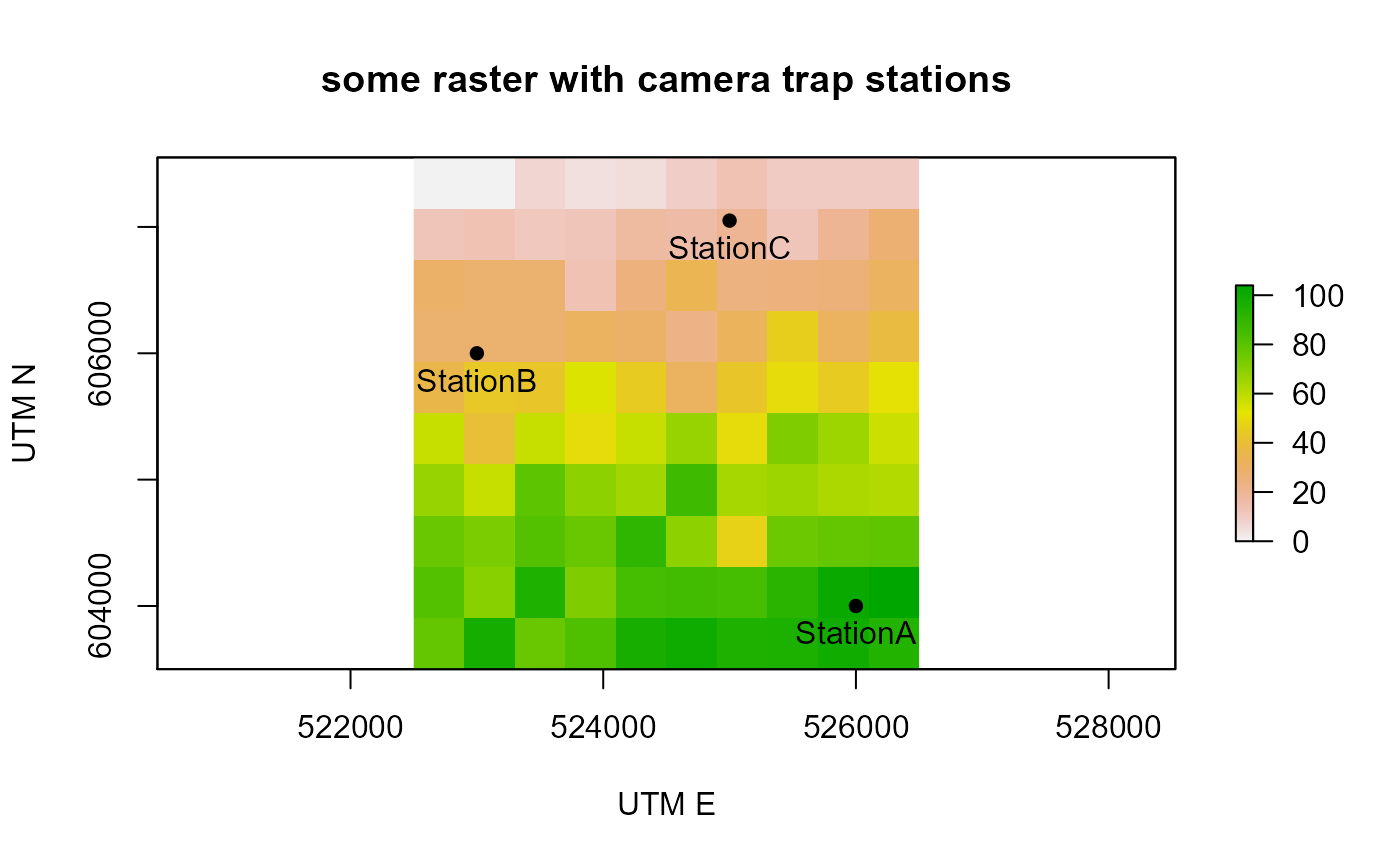
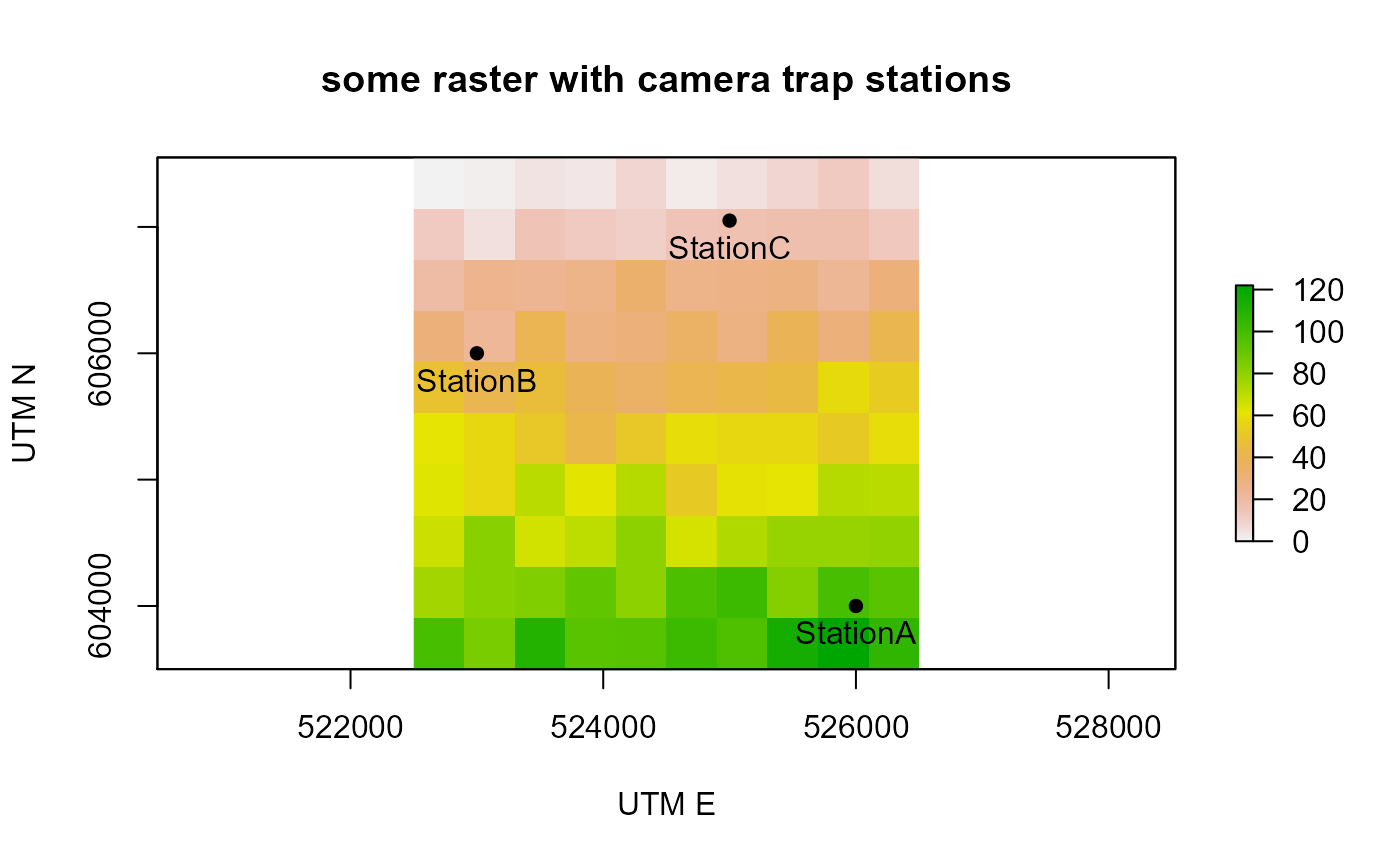
updated changed hyperlinks

Changed region(s): [[0.2764, 0.1561, 0.6757, 0.7803], [0.8907, 0.3121, 0.9521, 0.5931]]

diff --git a/docs/articles/camtrapr1.html b/docs/articles/camtrapr1.html
@@ -94,7 +94,7 @@
       <h1 data-toc-skip>1. Organising raw camera trap images in camtrapR</h1>
                         <h4 class="author">Juergen Niedballa (<a href="mailto:camtrapr@gmail.com" class="email">camtrapr@gmail.com</a>)</h4>
             
-            <h4 class="date">2021-03-20</h4>
+            <h4 class="date">2021-04-23</h4>
       
       <small class="dont-index">Source: <a href="https://github.com/jniedballa/camtrapR/blob/master/vignettes/camtrapr1.Rmd"><code>vignettes/camtrapr1.Rmd</code></a></small>
       <div class="hidden name"><code>camtrapr1.Rmd</code></div>
@@ -286,7 +286,7 @@
 <p>Two functions (<code>cameraOperation</code>, <code>surveyReport</code>) utilize these date information and therefore contain arguments to specify the date format (<code>dateFormat</code> and <code>CTDateFormat</code>, respectively). These arguments are used to interpret the character string in the table (e.g. "2015-12-31") as a date.</p>
 <p>If these arguments contain the character “%” (characteristic of the format argument to <code>strptime</code>), they are passed to function <code>as.Date</code> as argument <code>format</code>. If they don’t contain character “%”, they are interpreted as <code>orders</code> arguments to the function <code>parse_date_time</code> in the <code>lubridate</code> package.</p>
 <p>Details on how to set it correctly can be found in the Details section of the help files of functions <code>as.Date</code> and <code>strptime</code> or <code>parse_date_time</code>.</p>
-<p><a href="https://www.r-bloggers.com/date-formats-in-r/">Here is some information about date format in base R</a>.</p>
+<p><a href="https://www.r-bloggers.com/2013/08/date-formats-in-r/">Here is some information about date format in base R</a>.</p>
 <p><a href="https://lubridate.tidyverse.org/">Here is some information about date format in lubridate</a>.</p>
 <p>Here are a few examples for December 1st 2015 ("generic" is the abstract representation of your date string (Y = year, M = month, D = day), "example" is a formatted example and "dateFormat argument" is what you’d specify in <code>dateFormat</code> and <code>CTDateFormat</code> in either the base R or <code>lubridate</code> naming convention):</p>
 <table class="table">
@@ -392,9 +392,9 @@
 ## 2 StationB
 ## 3 StationC
 ##                                                                          directory
-## 1 C:/Users/Juergen/AppData/Local/Temp/RtmpGiwBmz/createStationFoldersTest/StationA
-## 2 C:/Users/Juergen/AppData/Local/Temp/RtmpGiwBmz/createStationFoldersTest/StationB
-## 3 C:/Users/Juergen/AppData/Local/Temp/RtmpGiwBmz/createStationFoldersTest/StationC
+## 1 C:/Users/Juergen/AppData/Local/Temp/RtmpWii45v/createStationFoldersTest/StationA
+## 2 C:/Users/Juergen/AppData/Local/Temp/RtmpWii45v/createStationFoldersTest/StationB
+## 3 C:/Users/Juergen/AppData/Local/Temp/RtmpWii45v/createStationFoldersTest/StationC
 ##   created exists
 ## 1    TRUE   TRUE
 ## 2    TRUE   TRUE
@@ -430,13 +430,13 @@
                                  timeShiftColumn      <span class="op">=</span> <span class="st">"timeshift"</span>,
                                  timeShiftSignColumn  <span class="op">=</span> <span class="st">"sign"</span>
 <span class="op">)</span></code></pre></div>
-<pre><code>## C:/Users/Juergen/AppData/Local/Temp/RtmpGiwBmz/raw_images/StationA</code></pre>
-<pre><code>## C:/Users/Juergen/AppData/Local/Temp/RtmpGiwBmz/raw_images/StationB</code></pre>
+<pre><code>## C:/Users/Juergen/AppData/Local/Temp/RtmpWii45v/raw_images/StationA</code></pre>
+<pre><code>## C:/Users/Juergen/AppData/Local/Temp/RtmpWii45v/raw_images/StationB</code></pre>
 <div class="sourceCode" id="cb21"><pre class="downlit sourceCode r">
 <code class="sourceCode R"><span class="va">timeshift_run</span></code></pre></div>
 <pre><code>##                                                            directory
-## 1 C:/Users/Juergen/AppData/Local/Temp/RtmpGiwBmz/raw_images/StationA
-## 2 C:/Users/Juergen/AppData/Local/Temp/RtmpGiwBmz/raw_images/StationB
+## 1 C:/Users/Juergen/AppData/Local/Temp/RtmpWii45v/raw_images/StationA
+## 2 C:/Users/Juergen/AppData/Local/Temp/RtmpWii45v/raw_images/StationB
 ##               n_directories                  n_images
 ## 1     1 directories scanned     3 image files updated
 ## 2     1 directories scanned     3 image files updated</code></pre>
@@ -453,8 +453,8 @@
 
 <span class="va">timeshift_undo</span></code></pre></div>
 <pre><code>##                                                            directory
-## 1 C:/Users/Juergen/AppData/Local/Temp/RtmpGiwBmz/raw_images/StationA
-## 2 C:/Users/Juergen/AppData/Local/Temp/RtmpGiwBmz/raw_images/StationB
+## 1 C:/Users/Juergen/AppData/Local/Temp/RtmpWii45v/raw_images/StationA
+## 2 C:/Users/Juergen/AppData/Local/Temp/RtmpWii45v/raw_images/StationB
 ##   n_images_undo
 ## 1             3
 ## 2             3</code></pre>
@@ -535,12 +535,12 @@
 ## 5 IMG0002.JPG StationB     NA 2009-04-05 23:13:00         TRUE
 ## 6 IMG0003.JPG StationB     NA 2009-04-07 00:23:00         TRUE
 ##                                                                       outDir
-## 1 C:/Users/Juergen/AppData/Local/Temp/RtmpGiwBmz/raw_images_renamed/StationA
-## 2 C:/Users/Juergen/AppData/Local/Temp/RtmpGiwBmz/raw_images_renamed/StationA
-## 3 C:/Users/Juergen/AppData/Local/Temp/RtmpGiwBmz/raw_images_renamed/StationA
-## 4 C:/Users/Juergen/AppData/Local/Temp/RtmpGiwBmz/raw_images_renamed/StationB
-## 5 C:/Users/Juergen/AppData/Local/Temp/RtmpGiwBmz/raw_images_renamed/StationB
-## 6 C:/Users/Juergen/AppData/Local/Temp/RtmpGiwBmz/raw_images_renamed/StationB
+## 1 C:/Users/Juergen/AppData/Local/Temp/RtmpWii45v/raw_images_renamed/StationA
+## 2 C:/Users/Juergen/AppData/Local/Temp/RtmpWii45v/raw_images_renamed/StationA
+## 3 C:/Users/Juergen/AppData/Local/Temp/RtmpWii45v/raw_images_renamed/StationA
+## 4 C:/Users/Juergen/AppData/Local/Temp/RtmpWii45v/raw_images_renamed/StationB
+## 5 C:/Users/Juergen/AppData/Local/Temp/RtmpWii45v/raw_images_renamed/StationB
+## 6 C:/Users/Juergen/AppData/Local/Temp/RtmpWii45v/raw_images_renamed/StationB
 ##                            filename_new fileExistsAlready CopyStatus
 ## 1 StationA__2009-04-10__05-07-00(1).JPG             FALSE      FALSE
 ## 2 StationA__2009-04-21__00-40-00(1).JPG             FALSE      FALSE
@@ -624,7 +624,7 @@
 <div class="sourceCode" id="cb34"><pre class="downlit sourceCode r">
 <code class="sourceCode R"><span class="va">exiftagnames_extracted</span> <span class="op">&lt;-</span> <span class="fu"><a href="../reference/exifTagNames.html">exifTagNames</a></span><span class="op">(</span><span class="va">wd_images_ID_copy</span><span class="op">)</span></code></pre></div>
 <pre><code>## Metadata of:
-## C:/Users/Juergen/AppData/Local/Temp/RtmpGiwBmz/sample_images_species_dir/StationA/PBE/StationA__2009-04-21__00-40-00(1).JPG</code></pre>
+## C:/Users/Juergen/AppData/Local/Temp/RtmpWii45v/sample_images_species_dir/StationA/PBE/StationA__2009-04-21__00-40-00(1).JPG</code></pre>
 <div class="sourceCode" id="cb36"><pre class="downlit sourceCode r">
 <code class="sourceCode R"><span class="fu">knitr</span><span class="fu">::</span><span class="fu"><a href="https://rdrr.io/pkg/knitr/man/kable.html">kable</a></span><span class="op">(</span><span class="va">exiftagnames_extracted</span>, row.names <span class="op">=</span> <span class="cn">TRUE</span><span class="op">)</span></code></pre></div>
 <table class="table">
@@ -663,7 +663,7 @@
 <td align="left">4</td>
 <td align="left">File</td>
 <td align="left">Directory</td>
-<td align="left">C:/Users/Juergen/AppData/Local/Temp/RtmpGiwBmz/sample_images_species_dir/StationA/PBE</td>
+<td align="left">C:/Users/Juergen/AppData/Local/Temp/RtmpWii45v/sample_images_species_dir/StationA/PBE</td>
 </tr>
 <tr class="odd">
 <td align="left">5</td>
@@ -675,19 +675,19 @@
 <td align="left">6</td>
 <td align="left">File</td>
 <td align="left">FileModifyDate</td>
-<td align="left">2021:03:20 13:02:12+01:00</td>
+<td align="left">2021:04:23 16:14:38+02:00</td>
 </tr>
 <tr class="odd">
 <td align="left">7</td>
 <td align="left">File</td>
 <td align="left">FileAccessDate</td>
-<td align="left">2021:03:20 13:02:16+01:00</td>
+<td align="left">2021:04:23 16:14:41+02:00</td>
 </tr>
 <tr class="even">
 <td align="left">8</td>
 <td align="left">File</td>
 <td align="left">FileCreateDate</td>
-<td align="left">2021:03:20 13:02:10+01:00</td>
+<td align="left">2021:04:23 16:14:36+02:00</td>
 </tr>
 <tr class="odd">
 <td align="left">9</td>

diff --git a/docs/articles/camtrapr4.html b/docs/articles/camtrapr4.html
@@ -94,7 +94,7 @@
       <h1 data-toc-skip>4. Data exploration and visualisation</h1>
                         <h4 class="author">Juergen Niedballa (<a href="mailto:camtrapr@gmail.com" class="email">camtrapr@gmail.com</a>)</h4>
             
-            <h4 class="date">2021-03-20</h4>
+            <h4 class="date">2021-04-23</h4>
       
       <small class="dont-index">Source: <a href="https://github.com/jniedballa/camtrapR/blob/master/vignettes/camtrapr4.Rmd"><code>vignettes/camtrapr4.Rmd</code></a></small>
       <div class="hidden name"><code>camtrapr4.Rmd</code></div>
@@ -166,7 +166,7 @@
 <h2 class="hasAnchor">
 <a href="#shapefile-export" class="anchor"></a>Shapefile export</h2>
 <p>Function <code>detectionMaps</code> comes with 4 arguments that allow for and control creation of ESRI shapefile for use in GIS software: <code>writeShapefile</code>, <code>shapefileName</code>, <code>shapefileDirectory</code> and <code>shapefileProjection</code>. The resulting shapefile will show stations as point features (as the map above), with coordinates, total species number and number of observations per species in the attribute table. The shapefile attribute table is identical to the resulting <code>data.frame</code> of the <code>detectionMaps</code> function.</p>
-<p>The following example demonstrates the creation of a shapefile using <code>detectionMaps</code>. Please note that for demonstration the shapefile is saved to a temporary directory, which makes no sense in real data and must be changed by the user. The argument <code>shapefileProjection</code> must be a valid argument to the function <code>CRS</code> from the package <code>sp</code>, i.e., a PROJ.4 string. These can be found under <a href="http://spatialreference.org/" class="uri">http://spatialreference.org/</a>. There, find the projection your coordinates are in, click on “Proj4” and copy the text. In this example, it is a projected coordinate system, UTM 50N with the WGS84 ellipsoid. Its PROJ.4 string is "+proj=utm +zone=50 +ellps=WGS84 +datum=WGS84 +units=m +no_defs". Because it is so widespread, here’s the PROJ4 string for standard Lat/Long coordinates using the WGS84 ellipsoid (a standard used by most GPS devices): "+proj=longlat +ellps=WGS84 +datum=WGS84 +no_defs".</p>
+<p>The following example demonstrates the creation of a shapefile using <code>detectionMaps</code>. Please note that for demonstration the shapefile is saved to a temporary directory, which makes no sense in real data and must be changed by the user. The argument <code>shapefileProjection</code> must be a valid argument to the function <code>CRS</code> from the package <code>sp</code>, i.e., a PROJ.4 string. These can be found under <a href="https://spatialreference.org/" class="uri">https://spatialreference.org/</a>. There, find the projection your coordinates are in, click on “Proj4” and copy the text. In this example, it is a projected coordinate system, UTM 50N with the WGS84 ellipsoid. Its PROJ.4 string is "+proj=utm +zone=50 +ellps=WGS84 +datum=WGS84 +units=m +no_defs". Because it is so widespread, here’s the PROJ4 string for standard Lat/Long coordinates using the WGS84 ellipsoid (a standard used by most GPS devices): "+proj=longlat +ellps=WGS84 +datum=WGS84 +no_defs".</p>
 <div class="sourceCode" id="cb5"><pre class="downlit sourceCode r">
 <code class="sourceCode R"><span class="co"># writing shapefiles requires packages rgdal and sp</span>
  <span class="kw"><a href="https://rdrr.io/r/base/library.html">library</a></span><span class="op">(</span><span class="va"><a href="http://rgdal.r-forge.r-project.org">rgdal</a></span><span class="op">)</span>
@@ -200,7 +200,7 @@
 <span class="va">shapefileTest</span> <span class="op">&lt;-</span> <span class="fu"><a href="http://rgdal.r-forge.r-project.org/reference/readOGR.html">readOGR</a></span><span class="op">(</span>dsn   <span class="op">=</span> <span class="fu"><a href="https://rdrr.io/r/base/tempfile.html">tempdir</a></span><span class="op">(</span><span class="op">)</span>, 
                          layer <span class="op">=</span> <span class="va">shapefileName</span><span class="op">)</span></code></pre></div>
 <pre><code>## OGR data source with driver: ESRI Shapefile 
-## Source: "C:\Users\Juergen\AppData\Local\Temp\Rtmpm2HCHe", layer: "recordShapefileTest"
+## Source: "C:\Users\Juergen\AppData\Local\Temp\Rtmp8QTPjJ", layer: "recordShapefileTest"
 ## with 3 features
 ## It has 9 fields</code></pre>
 <div class="sourceCode" id="cb10"><pre class="downlit sourceCode r">
@@ -265,9 +265,9 @@
 <span class="op">}</span></code></pre></div>
 <p><img src="camtrapr4_files/figure-html/unnamed-chunk-7-1.png" width="700"></p>
 <pre><code>##    Station  utm_y  utm_x EGY MNE PBE TRA VTA n_species raster_value
-## 1 StationA 604000 526000   0   0   4   0   2         2          101
-## 2 StationB 606000 523000   0   2   8   0   2         3           28
-## 3 StationC 607050 525000   6   0   6   8   1         4           20</code></pre>
+## 1 StationA 604000 526000   0   0   4   0   2         2           99
+## 2 StationB 606000 523000   0   2   8   0   2         3           22
+## 3 StationC 607050 525000   6   0   6   8   1         4           16</code></pre>
 <p>The same procedure also works with the camera trap station information table instead of the <code>detectionMaps</code> output.</p>
 <p>The SpatialPointsDataFrame can easily be converted to a sf object via</p>
 <div class="sourceCode" id="cb18"><pre class="downlit sourceCode r">

diff --git a/docs/reference/camtrapR-package.html b/docs/reference/camtrapR-package.html
@@ -258,7 +258,7 @@ Information about the camera-specific trapping periods (and periods of malfuncti
 
     
 
-<p>Niedballa, J., Sollmann, R., Courtiol, A., Wilting, A. (2016): camtrapR: an R package for efficient camera trap data management. Methods in Ecology and Evolution, 7(12). <a href='https://onlinelibrary.wiley.com/doi/10.1111/2041-210X.12600/full'>https://onlinelibrary.wiley.com/doi/10.1111/2041-210X.12600/full</a> <br /></p>
+<p>Niedballa, J., Sollmann, R., Courtiol, A., Wilting, A. (2016): camtrapR: an R package for efficient camera trap data management. Methods in Ecology and Evolution, 7(12). <a href='https://besjournals.onlinelibrary.wiley.com/doi/full/10.1111/2041-210X.12600'>https://besjournals.onlinelibrary.wiley.com/doi/full/10.1111/2041-210X.12600</a> <br /></p>
 <p>camtrapR Google Group <a href='https://groups.google.com/forum/#!forum/camtrapr'>https://groups.google.com/forum/#!forum/camtrapr</a> <br /></p>
 <p>Lemon, J. (2006) Plotrix: a package in the red light district of R. R-News, 6(4): 8-12. <br /></p>
 <p>Mike Meredith and Martin Ridout (2018). overlap: Estimates of coefficient of overlapping for animal activity patterns. R package version 0.3.2. <a href='https://CRAN.R-project.org/package=overlap'>https://CRAN.R-project.org/package=overlap</a> <br /></p>
